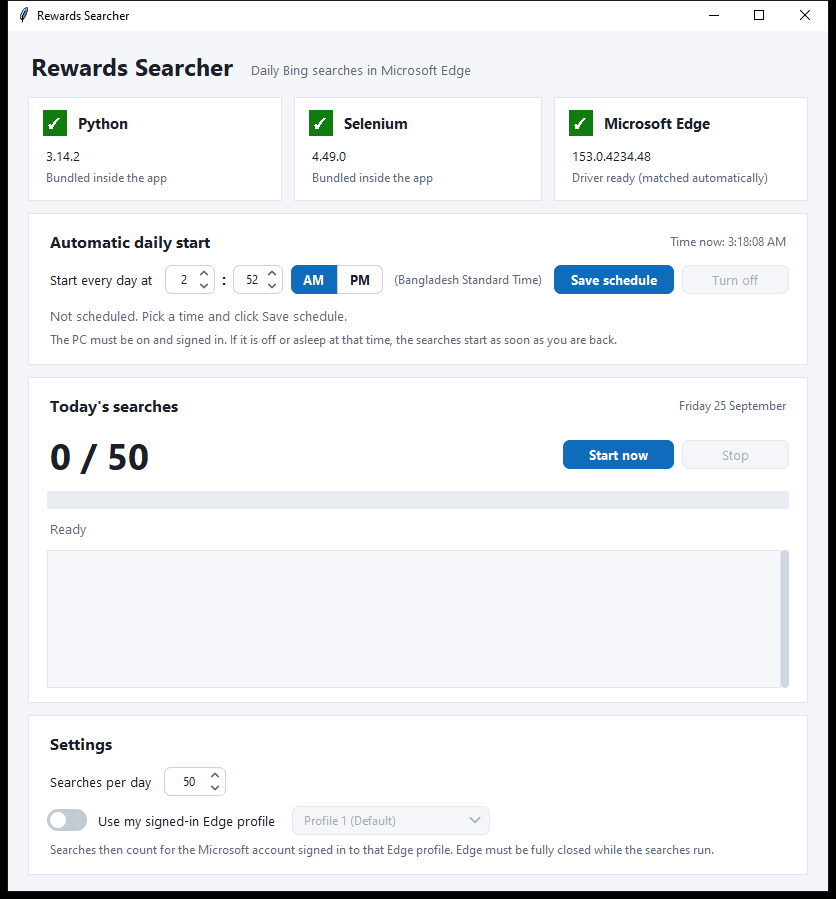
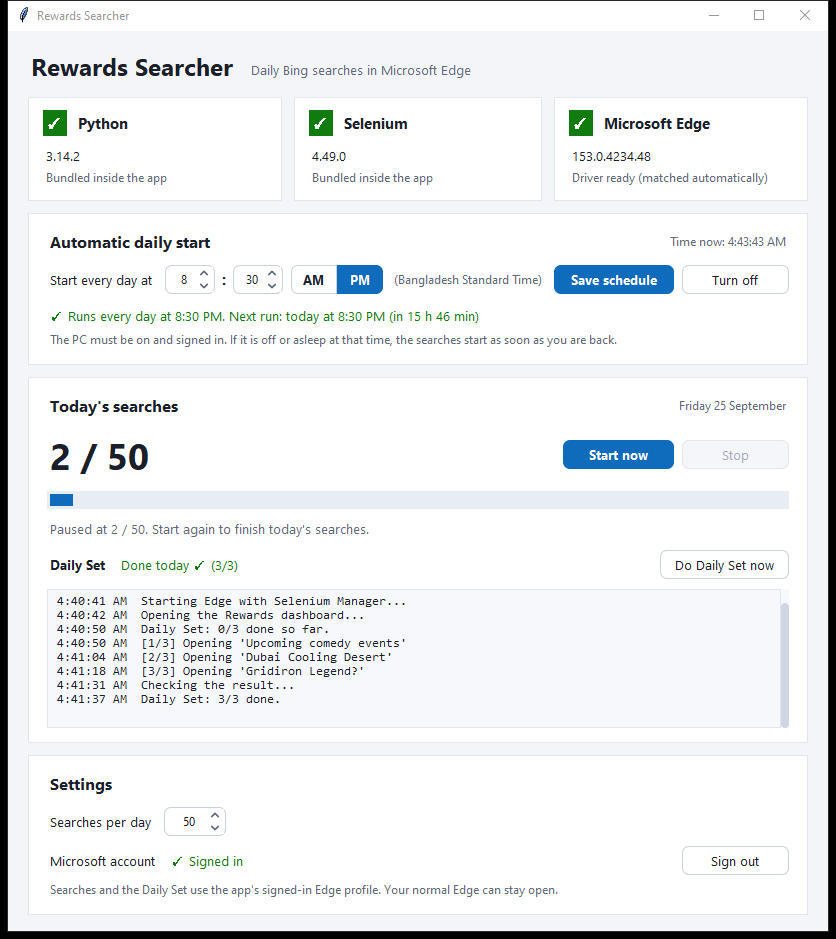
README: sign-in, Daily Set and zipped download
- New sections for signing in with the app's Edge profile and for the
  Daily Set button, including that it depends on the dashboard layout.
- Download step now says to extract RewardsSearcher.zip from Releases.
- Troubleshooting rows, project files and data files updated.
- New screenshot.

diff --git a/README.md b/README.md
@@ -13,7 +13,8 @@ A Windows app that runs your 50 daily Bing searches in Microsoft Edge. It can st
 - **Daily automatic start:** pick a time in 12-hour format. It runs in your PC's own time zone, including daylight saving.
 - **Live progress:** an *x / 50* counter and a log. Interrupted runs continue where they stopped, and the count resets at midnight.
 - **Edge driver handled for you:** the matching driver is downloaded from Microsoft on each PC. No driver is shipped with the app.
-- **Optional signed-in profile:** use your own Edge profile so the searches count for your Microsoft account.
+- **Sign in once:** the app has its own Edge profile. Searches then count for your Microsoft account, and your normal Edge can stay open.
+- **Daily Set in one click:** opens today's 3 Daily Set activities, to keep your streak going.
 
 ## Download and run
 
@@ -23,12 +24,13 @@ You need:
 - Internet
 
 Steps:
-1. Download `RewardsSearcher.exe` from the [**Releases**](https://github.com/jayed2003/microsoft-edge-automation/releases) page, or [build it yourself](#build-it-yourself).
-2. Double-click it.
+1. Download `RewardsSearcher.zip` from the [**Releases**](https://github.com/jayed2003/microsoft-edge-automation/releases) page, or [build it yourself](#build-it-yourself).
+2. Right-click the zip → **Extract All**, then double-click `RewardsSearcher.exe`.
    - If Windows says **"Windows protected your PC"**, click **More info → Run anyway**. It says this for any app that isn't from a big publisher.
    - Some antivirus programs flag packed Python apps. If yours blocks the file, allow it.
 3. Wait for the **Python**, **Selenium** and **Microsoft Edge** boxes to turn green ✓. The first time, the Edge box downloads the driver that matches your Edge.
-4. Click **Start now**, or set up the daily start below.
+4. [Sign in](#sign-in-to-your-microsoft-account) to your Microsoft account.
+5. Click **Start now**, or set up the daily start below.
 
 ## Using it
 
@@ -46,16 +48,28 @@ Good to know:
 - **The downloaded exe:** you can move or delete it after saving. The app installs its own copy in `%LOCALAPPDATA%\RewardsSearcher\`, and the schedule uses that copy.
 - **Stopping it:** click **Turn off**.
 
-### Getting the points on your account
+### Sign in to your Microsoft account
 
-By default, Edge opens with a fresh profile. That profile is only signed in to your Microsoft account if Windows itself is signed in with the same account.
+The app uses its own Edge profile, separate from your normal Edge. Sign in to it once:
+1. In **Settings → Microsoft account**, click **Sign in…**. An Edge window opens on the Rewards page.
+2. Sign in there. Tick "Stay signed in" if Microsoft asks.
+3. When you see your Rewards dashboard, close that Edge window or click **I'm signed in**.
 
-If your points aren't going up:
-1. Turn on **Use my signed-in Edge profile** in **Settings**.
-2. Pick your profile.
-3. Edge must be **fully closed** while the searches run. **Close Edge now** does that for you, and a scheduled run waits up to 30 minutes for it.
+After a few seconds the app shows **✓ Signed in**. From then on, searches and the Daily Set use this signed-in profile, and your normal Edge can stay open while they run. **Sign out** deletes the app's profile.
+
+If you don't sign in, the searches run in a fresh Edge profile. They only count for your account if Windows itself is signed in with the same Microsoft account.
 
 You can also change **Searches per day** in **Settings** (default 50).
+
+### Daily Set (streak)
+
+Rewards gives streak bonuses for completing the **Daily Set**, three activities on the dashboard, every day. Once you're signed in, click **Do Daily Set now** in the **Today's searches** card.
+
+The app opens the dashboard, clicks each Daily Set activity, and closes the tabs. Opening an activity is enough to earn its points; the quizzes inside don't have to be finished. Afterwards it reads the dashboard's own counter, and the row shows **Done today ✓ (3/3)**. Clicking again on a finished day just reports that it's done.
+
+The Daily Set only runs when you click the button. The daily schedule does the searches only.
+
+> The Daily Set depends on the layout of the Rewards dashboard, which Microsoft changes from time to time, so the app may need an update after a redesign. It currently needs the dashboard in English.
 
 ### Problems
 
@@ -64,6 +78,10 @@ You can also change **Searches per day** in **Settings** (default 50).
 | Edge box is ✗ *"Driver download failed"* | Connect to the internet and reopen the app. A driver download is needed the first time and after each Edge update. |
 | Edge box is ✗ *"Not found"* | Install Microsoft Edge from [microsoft.com/edge](https://www.microsoft.com/edge). |
 | *"Edge was closed, so the searches stopped at x/50"* | The Edge window was closed during the run. Click **Start now** to continue. |
+| **Do Daily Set now** is greyed out | Sign in first: **Settings → Microsoft account → Sign in…**. |
+| *"Couldn't find the Daily set on the Rewards dashboard"* | Microsoft changed the dashboard, so the app needs an update. Do the Daily Set by hand for now. |
+| Daily Set shows *"2/3 counted today"* | Click **Do Daily Set now** again. If it stays short, finish the missing activity on the dashboard by hand. |
+| *"Close the Edge window you signed in with"* | The sign-in Edge window is still open. Close it and try again. |
 | *"The schedule points to a missing file"* | Click **Save schedule** again. |
 | Anything else, or a scheduled run didn't happen | Open `%LOCALAPPDATA%\RewardsSearcher\log.txt`. Every run is logged there, including scheduled ones. |
 
@@ -101,7 +119,8 @@ python app.py
 | File | Purpose |
 |---|---|
 | `app.py` | The window and entry point. The scheduled task starts it with `--autorun`. |
-| `script.py` | The search engine: starts Edge through Selenium and runs the Bing searches |
+| `script.py` | The search engine: starts Edge through Selenium and runs the Bing searches. It also manages the app's Edge profile and the sign-in check. |
+| `dailyset.py` | Opens today's Daily Set activities on the Rewards dashboard |
 | `scheduler.py` | Creates, reads and removes the Windows Task Scheduler task |
 | `storage.py` | Settings, today's progress and the log |
 | `widgets.py` | The rounded boxes, buttons, AM/PM toggle and on/off switch, drawn in code with no extra libraries |
@@ -110,6 +129,10 @@ python app.py
 ### How it works
 
 - **Edge driver:** Selenium Manager, which is part of Selenium, downloads the driver matching the installed Edge from Microsoft. It caches the driver in `%USERPROFILE%\.cache\selenium`, and downloads a new one only after Edge updates.
+- **Sign-in:** **Sign in…** opens a normal, non-automated Edge on the app's own profile folder, where the user signs in. The app never sees the password.
+  - Selenium then reuses that profile with `--user-data-dir`. It's a separate folder from the user's Edge, so both can run at once.
+  - The sign-in check opens `rewards.bing.com/dashboard` in headless Edge. Signed-out visitors are redirected to `/about`.
+- **Daily Set:** `dailyset.py` finds the cards under the dashboard's "Daily set" heading and clicks each one, since opening a card is what earns its points. It closes each tab the card opens, then reads the "Daily Set · Activity: x/3" counter to confirm.
 - **Schedule:** a per-user task named `RewardsSearcher` is registered with `schtasks /Create /XML`, so no admin rights are needed. Its settings:
   - Daily trigger in local time.
   - Start when available: missed runs happen later.
@@ -118,7 +141,9 @@ python app.py
   - The action is `%LOCALAPPDATA%\RewardsSearcher\RewardsSearcher.exe --autorun`.
 - **One copy at a time:** a named mutex keeps a second copy from starting. When the scheduled copy finds the app already open, it signals the open window through a named event and exits, and the open window starts the searches.
 - **Data:** everything is stored in `%LOCALAPPDATA%\RewardsSearcher\`:
-  - `settings.json`: time, searches per day and profile choice
-  - `progress.json`: today's count
+  - `settings.json`: time, searches per day, and whether the app is signed in
+  - `progress.json`: today's search count
+  - `dailyset.json`: today's Daily Set result
+  - `EdgeProfile\`: the app's own signed-in Edge profile
   - `log.txt`: run history
   - `RewardsSearcher.exe`: the installed copy the schedule runs
